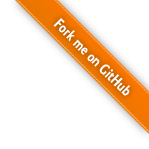
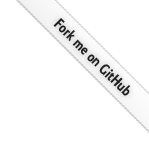
update style

Changed region(s): [[0.1074, 0.0, 1.0, 0.9128]]

diff --git a/css/demo.css b/css/demo.css
@@ -1,12 +1,13 @@
 * {  margin: 0; padding: 0; border: 0;}
-@font-face { font-family: 'SourceCode'; src: url('../images/SourceCodePro.woff') format('woff');}
-body{ background-color: #3D4143;  background:linear-gradient(-135deg, #b0babf 0%, #72797D 20%, #3D4143 100%); overflow: hidden; color:#cccccc; font-family:SourceCode; font-size: 10px; }
-input{ margin:0; padding:8px; background:linear-gradient(#72797D , #3D4143); color:#cccccc; font-family:SourceCode; }
+@font-face { font-family: 'SourceCode'; src: url('../images/f.woff') format('woff');}
+body{ background-color: #3D4143;  background:linear-gradient(-155deg, #b0babf, #72797D, #3D4143, #1B1D1E); overflow: hidden; color:#cccccc; font-family:SourceCode; font-size: 10px; text-shadow: 1px 1px #000000;}
+input{ margin:0; padding:8px; background:linear-gradient(#72797D , #3D4143); color:#cccccc; font-family:SourceCode; text-shadow: 1px 1px #000000;}
 input[type='button'] {border: 2px solid #72797D; cursor: pointer;}
+input[type='button']:hover{border: 2px solid #72797D; cursor: pointer;background: #11BBFF; color:#000000;}
 #interface{ position: absolute; left:10px; top:10px; width:100%; height:20px; }
 #info{ pointer-events:none; position: absolute; left:10px; top:60px; width: 400px; height: 400px; }
-#link{ position: absolute; right:10px; bottom:10px; font-size: 14px; word-spacing: 10px;}
+#link{ position: absolute; left:0; bottom:0; width:100%; height:30px; font-size:14px; word-spacing:10px; text-align:right; margin-left:-30px;}
 a:link {color: #cccccc; text-decoration: none;}
 a:visited {color: #cccccc; text-decoration: none;}
-a:hover {color: #ED7600; text-decoration: none;}
-a:active {color: #0099FF; text-decoration: none;}
+a:hover {color: #11BBFF; text-decoration: none;}
+a:active {color: #11BBFF; text-decoration: none;}

diff --git a/test_moving.html b/test_moving.html
@@ -81,7 +81,7 @@
         scene.add( light );
 
         buffgeoSphere = new THREE.BufferGeometry();
-        buffgeoSphere.fromGeometry( new THREE.SphereGeometry( 1 , 20, 10 ) );
+        buffgeoSphere.fromGeometry( new THREE.SphereGeometry( 1, 20, 10 ) );
 
         buffgeoBox = new THREE.BufferGeometry();
         buffgeoBox.fromGeometry( new THREE.BoxGeometry( 1, 1, 1 ) );
